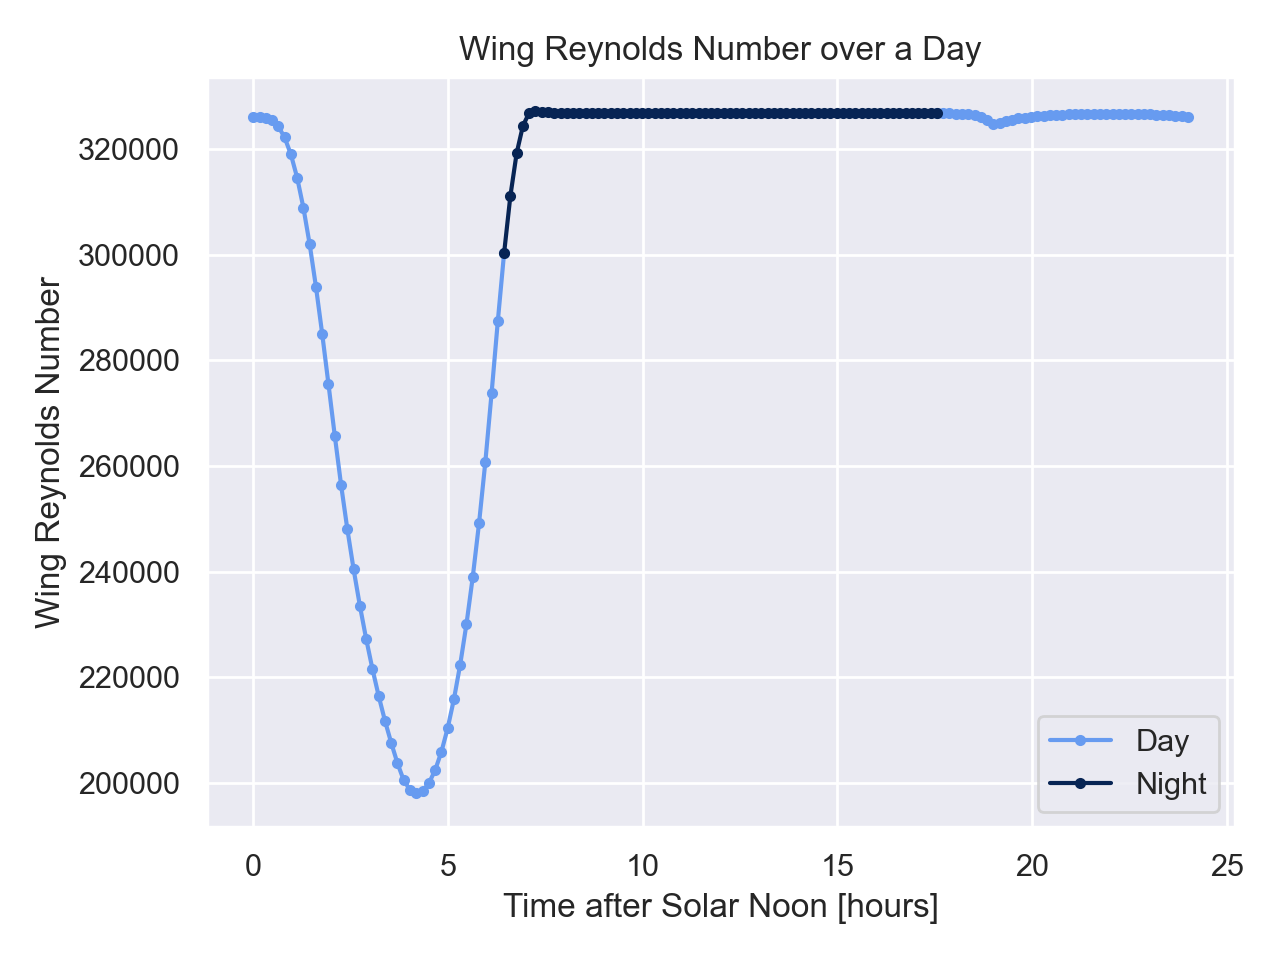
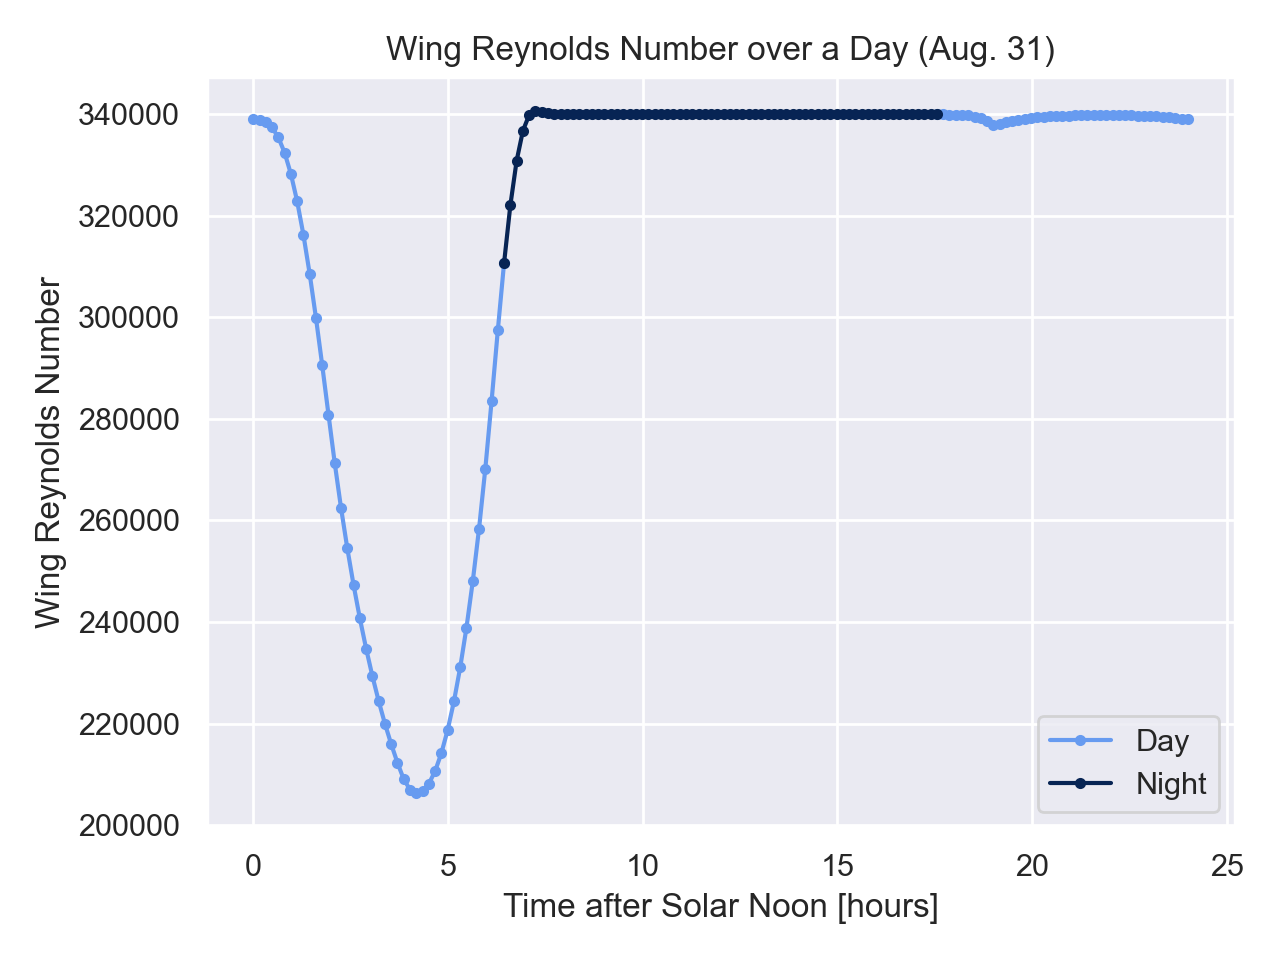
latest avionics numbers, longer nose

diff --git a/design_opt.py b/design_opt.py
@@ -26,23 +26,37 @@ opti = cas.Opti()
 
 ##### Operating Parameters
 latitude = 49  # degrees (49 deg is top of CONUS, 26 deg is bottom of CONUS)
+
 day_of_year = 244  # Julian day. June 1 is 153, June 22 is 174, Aug. 31 is 244
+
 min_altitude = 19812  # meters. 19812 m = 65000 ft.
+
 required_headway_per_day = 10e3  # meters
+
 days_to_simulate = opti.parameter()
 opti.set_value(days_to_simulate, 1)
+
 propulsion_type = "solar"  # "solar" or "gas"
+
 enforce_periodicity = True  # Tip: turn this off when looking at gas models or models w/o trajectory opt. enabled.
 allow_trajectory_optimization = True
+
 n_booms = 3  # 1, 2, or 3
+
 structural_load_factor = 3  # over static
+
 show_plots = True
+
 structural_mass_margin_multiplier = opti.parameter()
 opti.set_value(structural_mass_margin_multiplier, 1.5)
+
 minimize = "span"  # "span" or "TOGW"
+
 mass_payload = opti.parameter()
 opti.set_value(mass_payload, 30)
+
 wind_speed_func = lambda alt: lib_winds.wind_speed_conus_summer_99(alt, latitude)
+
 battery_specific_energy_Wh_kg = opti.parameter()
 opti.set_value(battery_specific_energy_Wh_kg, 450)
 
@@ -195,7 +209,7 @@ opti.subject_to([
     # you can relax this, but you need to change the fuselage shape first
 ])
 
-nose_length = 1.5
+nose_length = 4.3 # Calculated in Slack DMs with Olek Peraire on 4/15/2020
 
 fuse_diameter = 0.6
 boom_diameter = 0.2
@@ -567,7 +581,7 @@ n_propellers = 2 * n_booms
 
 area_propulsive = cas.pi / 4 * propeller_diameter ** 2 * n_propellers
 propeller_efficiency = 0.8  # a total WAG
-motor_efficiency = 0.856 / (0.856 + 0.026 + 0.018 + 0.004)  # back-calculated from Odysseus data
+motor_efficiency = 0.856 / (0.856 + 0.026 + 0.018 + 0.004)  # back-calculated from Odysseus data (94.7%)
 
 power_out_propulsion_shaft = lib_prop_prop.propeller_shaft_power_from_thrust(
     thrust_force=thrust_force,
@@ -607,7 +621,7 @@ power_out_payload = cas.if_else(
 )
 
 # Account for avionics power
-power_out_avionics = 235.4  # Pulled from Avionics spreadsheet on 4/13/20
+power_out_avionics = 241.4  # Pulled from Avionics spreadsheet on 4/14/20
 # https://docs.google.com/spreadsheets/d/1nhz2SAcj4uplEZKqQWHYhApjsZvV9hme9DlaVmPca0w/edit?pli=1#gid=0
 
 ### Power accounting
@@ -868,7 +882,7 @@ mass_structural *= structural_mass_margin_multiplier
 
 ### Avionics
 # mass_avionics = 3.7 / 3.8 * 25  # back-calculated from Kevin Uleck's figures in MIT 16.82 presentation
-mass_avionics = 3.179  # Pulled from Avionics team spreadsheet on 4/10
+mass_avionics = 10.118  # Pulled from Avionics team spreadsheet on 4/14
 # https://docs.google.com/spreadsheets/d/1nhz2SAcj4uplEZKqQWHYhApjsZvV9hme9DlaVmPca0w/edit?pli=1#gid=0
 
 opti.subject_to([
@@ -1076,6 +1090,12 @@ if __name__ == "__main__":
     if np.abs(sol.value(penalty / objective)) > 0.01:
         print("\nWARNING: high penalty term! P/O = %.3f\n" % sol.value(penalty / objective))
 
+    save_sol_to_file(sol,
+                     save_primal=True,
+                     save_dual=False,
+                     primal_location="last_solution.sol"
+                     )
+
     # Find dusk and dawn
     try:
         si = sol.value(solar_flux_on_horizontal)
@@ -1150,10 +1170,10 @@ if __name__ == "__main__":
 
 
     fig, ax = plt.subplots(1, 1, figsize=(6.4, 4.8), dpi=200)
-    plot(hour, y)
+    plot(hour, y / 1000)
     plt.xlabel("Time after Solar Noon [hours]")
-    plt.ylabel("Altitude [m]")
-    plt.title("Altitude over a Day")
+    plt.ylabel("Altitude [km]")
+    plt.title("Altitude over a Day (Aug. 31)")
     plt.tight_layout()
     plt.savefig("outputs/altitude.png")
     plt.show() if show_plots else plt.close(fig)
@@ -1161,26 +1181,26 @@ if __name__ == "__main__":
     fig, ax = plt.subplots(1, 1, figsize=(6.4, 4.8), dpi=200)
     plot(hour, airspeed)
     plt.xlabel("Time after Solar Noon [hours]")
-    plt.ylabel("Airspeed [m/s]")
-    plt.title("Airspeed over a Day")
+    plt.ylabel("True Airspeed [m/s]")
+    plt.title("True Airspeed over a Day (Aug. 31)")
     plt.tight_layout()
     plt.savefig("outputs/airspeed.png")
     plt.show() if show_plots else plt.close(fig)
 
     fig, ax = plt.subplots(1, 1, figsize=(6.4, 4.8), dpi=200)
-    plot(hour, q)
+    plot(hour, wing_CL)
     plt.xlabel("Time after Solar Noon [hours]")
-    plt.ylabel("Dynamic Pressure [Pa]")
-    plt.title("Dynamic Pressure over a Day")
+    plt.ylabel("Lift Coefficient")
+    plt.title("Lift Coefficient over a Day (Aug. 31)")
     plt.tight_layout()
-    plt.savefig("outputs/q.png")
+    plt.savefig("outputs/CL.png")
     plt.show() if show_plots else plt.close(fig)
 
     fig, ax = plt.subplots(1, 1, figsize=(6.4, 4.8), dpi=200)
     plot(hour, net_power)
     plt.xlabel("Time after Solar Noon [hours]")
     plt.ylabel("Net Power [W] (positive is charging)")
-    plt.title("Net Power over a Day")
+    plt.title("Net Power over a Day (Aug. 31)")
     plt.tight_layout()
     plt.savefig("outputs/net_power.png")
     plt.show() if show_plots else plt.close(fig)
@@ -1198,7 +1218,7 @@ if __name__ == "__main__":
     plot(hour, wing_Re)
     plt.xlabel("Time after Solar Noon [hours]")
     plt.ylabel("Wing Reynolds Number")
-    plt.title("Wing Reynolds Number over a Day")
+    plt.title("Wing Reynolds Number over a Day (Aug. 31)")
     plt.tight_layout()
     plt.savefig("outputs/wing_Re.png")
     plt.show() if show_plots else plt.close(fig)
@@ -1207,7 +1227,7 @@ if __name__ == "__main__":
     plot(x / 1000, y / 1000)
     plt.xlabel("Downrange Distance [km]")
     plt.ylabel("Altitude [km]")
-    plt.title("Optimal Trajectory")
+    plt.title("Optimal Trajectory (Aug. 31)")
     plt.tight_layout()
     plt.savefig("outputs/trajectory.png")
     plt.show() if show_plots else plt.close(fig)
@@ -1216,7 +1236,7 @@ if __name__ == "__main__":
     plot(hour, power_in)
     plt.xlabel("Time after Solar Noon [hours]")
     plt.ylabel("Power Generated [W]")
-    plt.title("Power Generated over a Day")
+    plt.title("Power Generated over a Day (Aug. 31)")
     plt.tight_layout()
     plt.savefig("outputs/power_in.png")
     plt.show() if show_plots else plt.close(fig)
@@ -1225,7 +1245,7 @@ if __name__ == "__main__":
     plot(hour, power_out)
     plt.xlabel("Time after Solar Noon [hours]")
     plt.ylabel("Power Consumed [W]")
-    plt.title("Power Consumed over a Day")
+    plt.title("Power Consumed over a Day (Aug. 31)")
     plt.tight_layout()
     plt.savefig("outputs/power_out.png")
     plt.show() if show_plots else plt.close(fig)
@@ -1266,7 +1286,7 @@ if __name__ == "__main__":
         "Wing",
         "Stabilizers",
         "Fuses & Booms",
-        "Misc. & Margin"
+        "Margin"
     ]
     pie_values = [
         s(mass_wing),
